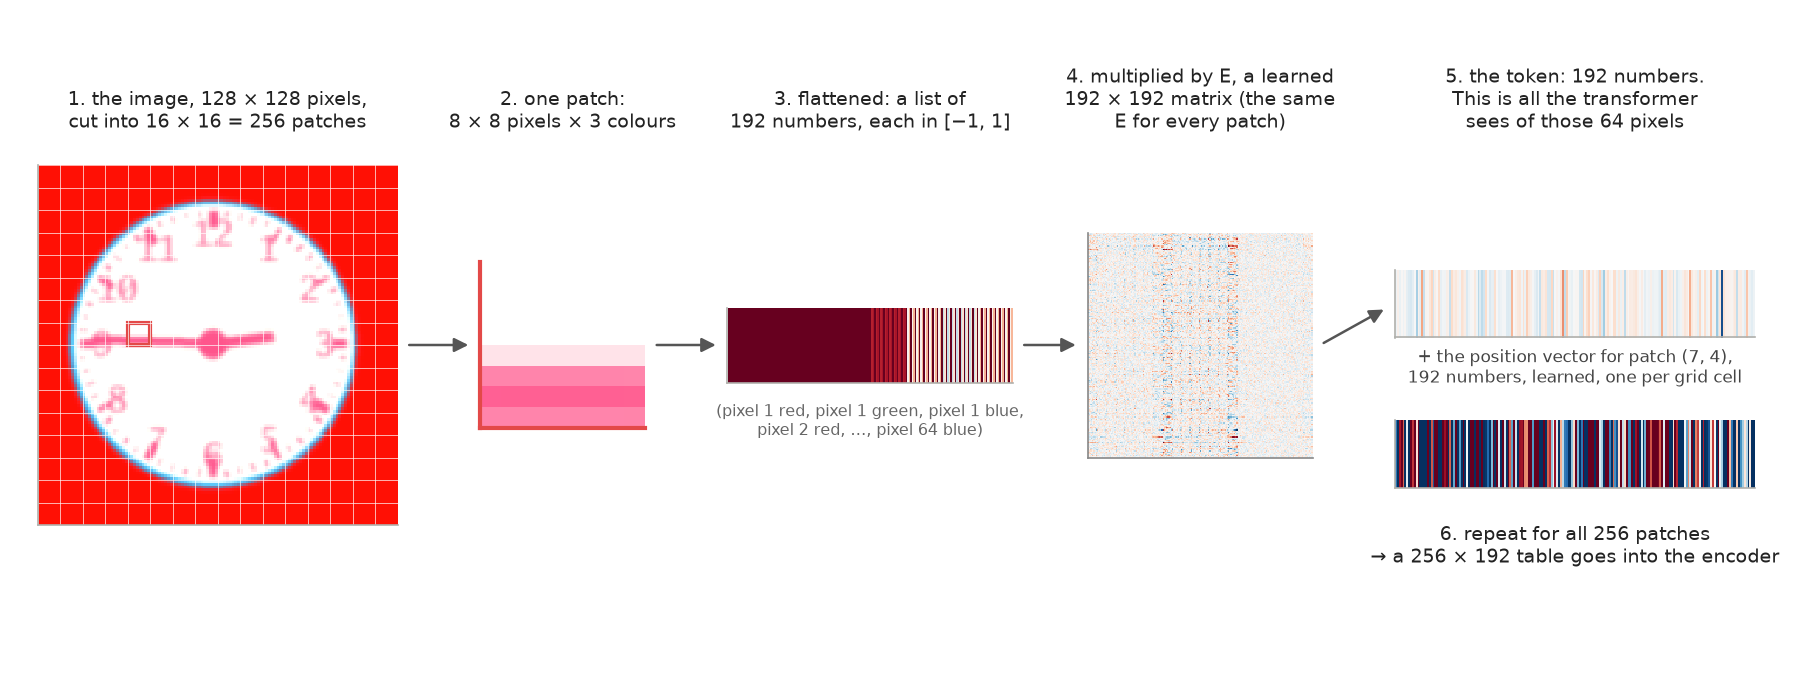
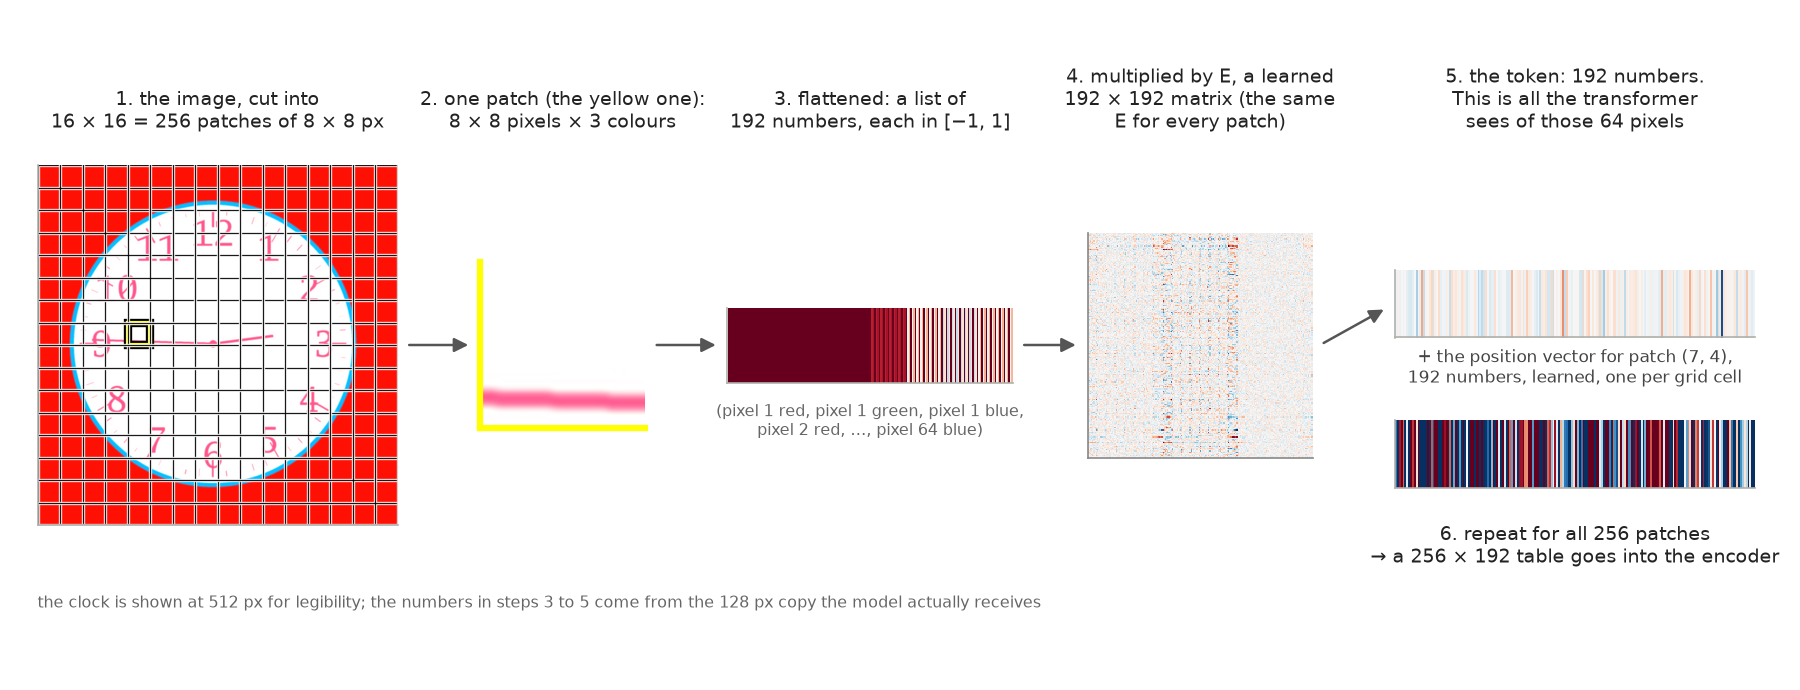
Tokeniser walk-through on the crisp render

diff --git a/_posts/2026-09-15-clocks-part-2-models.md b/_posts/2026-09-15-clocks-part-2-models.md
@@ -193,13 +193,13 @@ came from.
 Here it is on the real model, following one stamp from the clock to its
 description:
 
-![One patch followed from the image to its token: cut, flatten to 192 numbers, multiply by the learned matrix E, add the position vector, one of 256 tokens](/assets/clocks/tokeniser_steps.png){: .no-invert}
+![One patch followed from the image to its token: cut, flatten to 192 numbers, multiply by the learned matrix E, add the position vector, one of 256 tokens. The clock is shown at 512 px for legibility](/assets/clocks/tokeniser_steps.png){: .no-invert}
 
 Step by step, with the sizes:
 
 1. **Cut.** The 128 by 128 image is divided into a 16 by 16 grid of
-   patches, each 8 by 8 pixels. That's 256 patches. The red square is one
-   of them, on the minute hand.
+   patches, each 8 by 8 pixels. That's 256 patches. The yellow square is
+   one of them, on the minute hand.
 2. **Flatten.** Each patch is 8 × 8 pixels × 3 colours = 192 numbers. They
    are read off in a fixed order into one long list. The picture of the
    patch is gone; what's left is the list.
